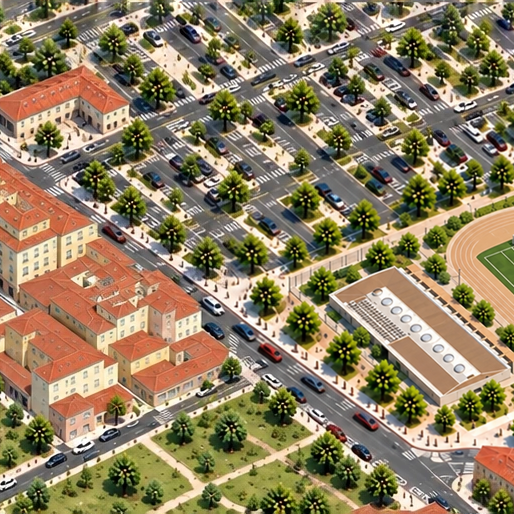
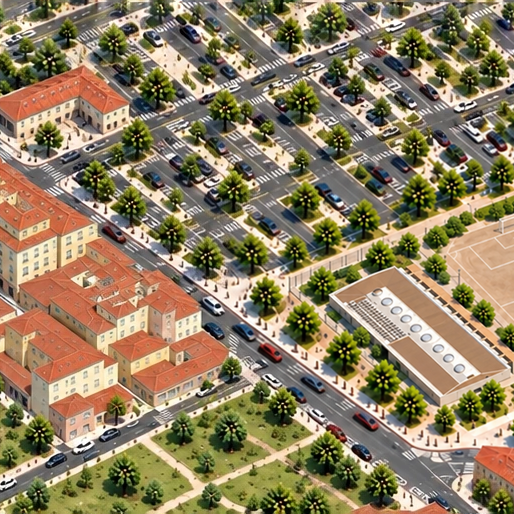
Cell 25,13 rectification: remove unsupported oval stadium, restore Pedro Lamata dirt football pitch

Changed region(s): [[0.8405, 0.3424, 1.0, 0.6226], [0.9961, 0.6537, 1.0, 0.6848]]

diff --git a/DECISIONS.md b/DECISIONS.md
@@ -480,3 +480,27 @@ Reanudacion autorizada por Rafa el 21 nov ("Avanza tuuuu"). Primera correccion a
 - Contrastado con PNOA: óvalo que encierra el campo, pabellón blanco con
   círculos al SO, pista rojiza al SE. Interpretado: color exacto de la
   pista, líneas, gradas y vegetación interior.
+
+## 2026-11-21 — Celda 25,13 (rectificación): el estadio ovalado era un error mío; restaurado el campo de tierra real
+
+- Rectificación de la entrada anterior: la pista ovalada de atletismo que
+  dibujé en la revisión anterior NO está respaldada por la referencia.
+  Verificación con fuentes identificables (consultadas 2026-11-21):
+  · Nominatim/OSM (38.984171,-1.869209): Calle Méjico, barrio Pedro Lamata.
+    https://nominatim.openstreetmap.org/reverse?lat=38.984171&lon=-1.869209&zoom=18&format=jsonv2&accept-language=es
+  · Censo de Instalaciones Deportivas de Castilla-La Mancha (CSV oficial):
+    CAMPO DE FÚTBOL 'PEDRO LAMATA', PISTA POLIDEPORTIVA 'PEDRO LAMATA',
+    PISTAS DE PETANCA 'PEDRO LAMATA'.
+    https://datosabiertos.castillalamancha.es/sites/datosabiertos.castillalamancha.es/files/Listado%20Censo%20Instalaciones%20Deportivas%20CLM.csv
+  · PNOA WMS IGN ampliada: campo de tierra RECTANGULAR con marcas blancas,
+    sin óvalo; pista polideportiva roja al SE; edificio de franja blanca con
+    lucernarios circulares al SO; calles de petanca al S.
+- Corrección: el estadio se sustituye por el campo de fútbol de tierra
+  rectangular (misma huella y orientación que en PNOA). Se conservan del
+  trabajo previo el pabellón blanco con círculos (SO), la pista roja (SE),
+  las pistas de petanca (S) y la cubierta solar industrial.
+- Soporte 40.724 px centrado, sin tocar bordes; 0 difs RGBA fuera; alfa
+  intacto; cuatro bordes nativos limpios.
+- Contrastado: rectangularidad del campo, marcas de fútbol, pista
+  polideportiva SE, pabellón SO, petanca S. Interpretado: textura fina de
+  la tierra, porterías y líneas exactas.
